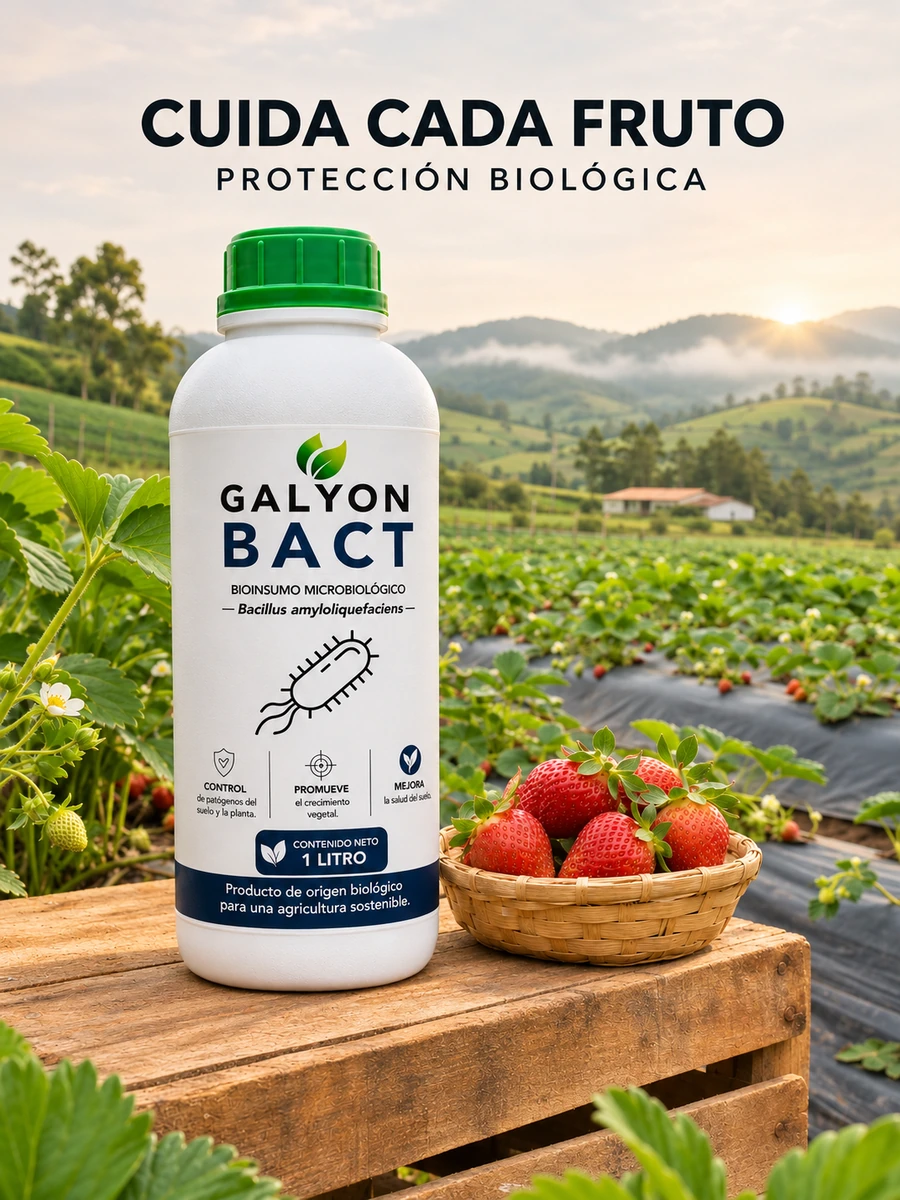
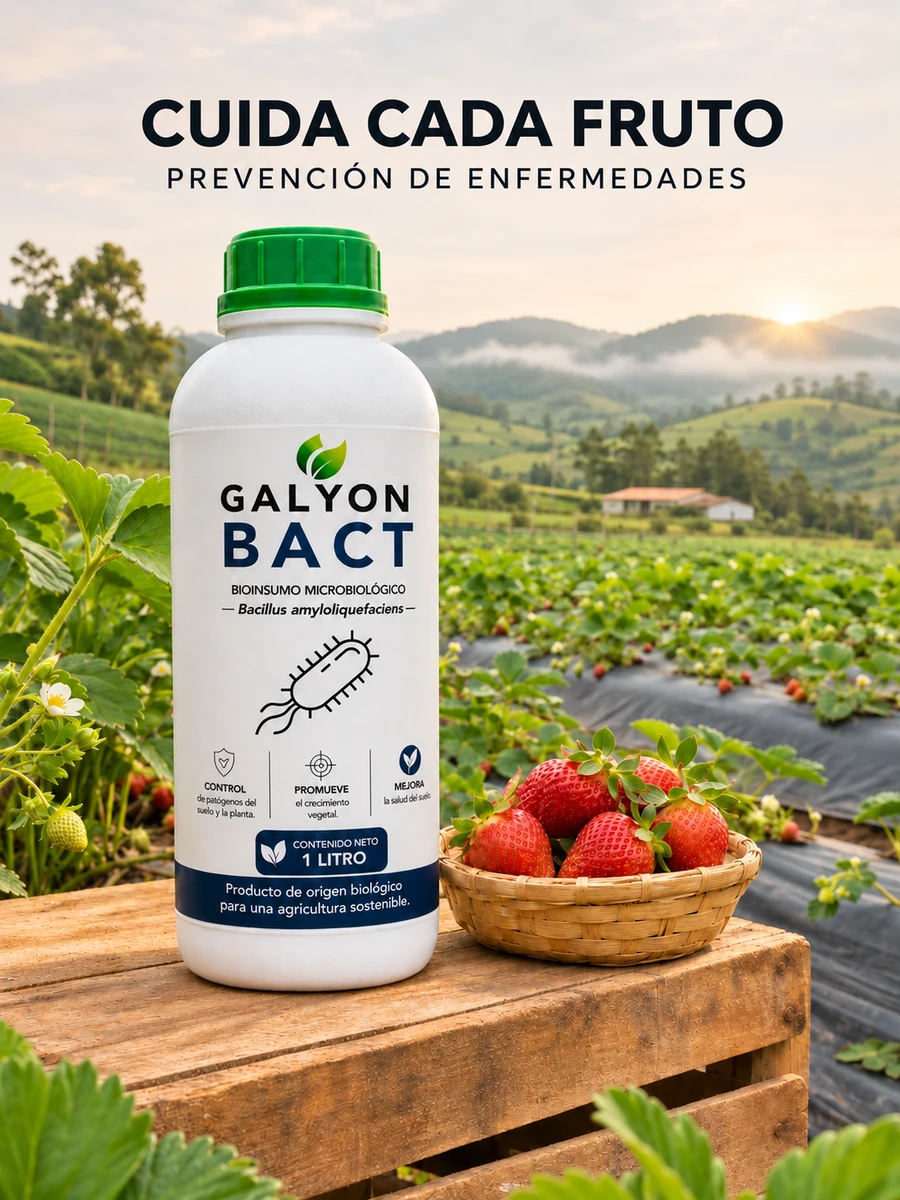
Refresh TRICHO story artwork and clarify BACT prevention subtitle

diff --git a/index.html b/index.html
@@ -25,7 +25,7 @@
   <link rel="preconnect" href="https://fonts.googleapis.com" />
   <link rel="preconnect" href="https://fonts.gstatic.com" crossorigin />
   <link href="https://fonts.googleapis.com/css2?family=DM+Sans:wght@400;500;600;700;800&family=Manrope:wght@400;500;600;700;800&display=swap" rel="stylesheet" />
-  <link rel="stylesheet" href="styles.css?v=5.7.35" />
+  <link rel="stylesheet" href="styles.css?v=5.7.36" />
   <style>.icon-arrow{display:inline-flex;align-items:center;justify-content:center;vertical-align:middle;line-height:0;flex-shrink:0}.icon-arrow svg{width:14px;height:14px;display:block;stroke:currentColor;stroke-width:1.9;fill:none;stroke-linecap:round;stroke-linejoin:round}.topline span:last-child{display:inline-flex;align-items:center;gap:6px}.catalog-note a{display:inline-flex;align-items:center;gap:6px}.soil-package .icon-arrow{justify-self:end;color:#639662}.soil-package .icon-arrow svg{width:16px;height:16px}</style>
 <style id="galyon-ajustes-xavier-2026">
 #nosotros{padding-top:clamp(36px,5vw,68px)}
@@ -79,8 +79,8 @@
 </div><figcaption><span>02</span> OBSERVACIÓN DEL PROBLEMA</figcaption></figure>
 <figure class="identity-photo identity-photo-solution" aria-label="Nuestras soluciones biológicas" aria-roledescription="carrusel">
 <div class="identity-product-slides identity-sequence-slides">
-<img class="identity-sequence-slide identity-product-slide is-current" src="assets/nosotros-tricho-producto.webp" alt="Presentación ilustrativa de GALYON TRICHO con cacao" loading="lazy" decoding="async" width="960" height="960"/>
-<img class="identity-sequence-slide identity-product-slide" src="assets/nosotros-bact-frutilla.webp?v=3" alt="Presentación ilustrativa de GALYON BACT, Bacillus amyloliquefaciens, con frutillas" loading="lazy" decoding="async" width="900" height="1200" aria-hidden="true"/>
+<img class="identity-sequence-slide identity-product-slide is-current" src="assets/nosotros-tricho-producto.webp?v=2" alt="Presentación ilustrativa de GALYON TRICHO con cacao" loading="lazy" decoding="async" width="900" height="1200"/>
+<img class="identity-sequence-slide identity-product-slide" src="assets/nosotros-bact-frutilla.webp?v=4" alt="Presentación ilustrativa de GALYON BACT, Bacillus amyloliquefaciens, con frutillas" loading="lazy" decoding="async" width="900" height="1200" aria-hidden="true"/>
 <img class="identity-sequence-slide identity-product-slide" src="assets/nosotros-insecta-maiz.webp?v=2" alt="Presentación ilustrativa de GALYON INSECTA, Bacillus thuringiensis, con maíz y botella de tapa amarilla" loading="lazy" decoding="async" width="900" height="1200" aria-hidden="true"/>
 </div>
 <figcaption><span>03</span> NUESTRA SOLUCIÓN BIOLÓGICA</figcaption></figure>

diff --git a/styles.css b/styles.css
@@ -1610,11 +1610,8 @@
 .identity-sequence-slides{position:absolute;inset:0;overflow:hidden}
 #nosotros .identity-sequence-slide{position:absolute;inset:0;width:100%;height:100%;object-fit:cover;opacity:0;transition:opacity .7s ease;cursor:default}
 #nosotros .identity-sequence-slide.is-current{opacity:1}
-#nosotros .identity-product-slides{inset:0 0 40px}
-#nosotros .identity-product-slide{object-fit:contain}
-/* Las nuevas composiciones verticales llenan el cuadro hasta sus bordes. */
-#nosotros .identity-product-slides:has(.is-current:is([src*="nosotros-bact-frutilla"],[src*="nosotros-insecta-maiz"])){inset:0}
-#nosotros .identity-product-slide:is([src*="nosotros-bact-frutilla"],[src*="nosotros-insecta-maiz"]){object-fit:cover}
+#nosotros .identity-product-slides{inset:0}
+#nosotros .identity-product-slide{object-fit:cover}
 @media(prefers-reduced-motion:reduce){#nosotros .identity-sequence-slide{transition:none}}
 
 /* Referencias de resultados completas: evitar recortar un encuadre horizontal en una tira vertical. */
